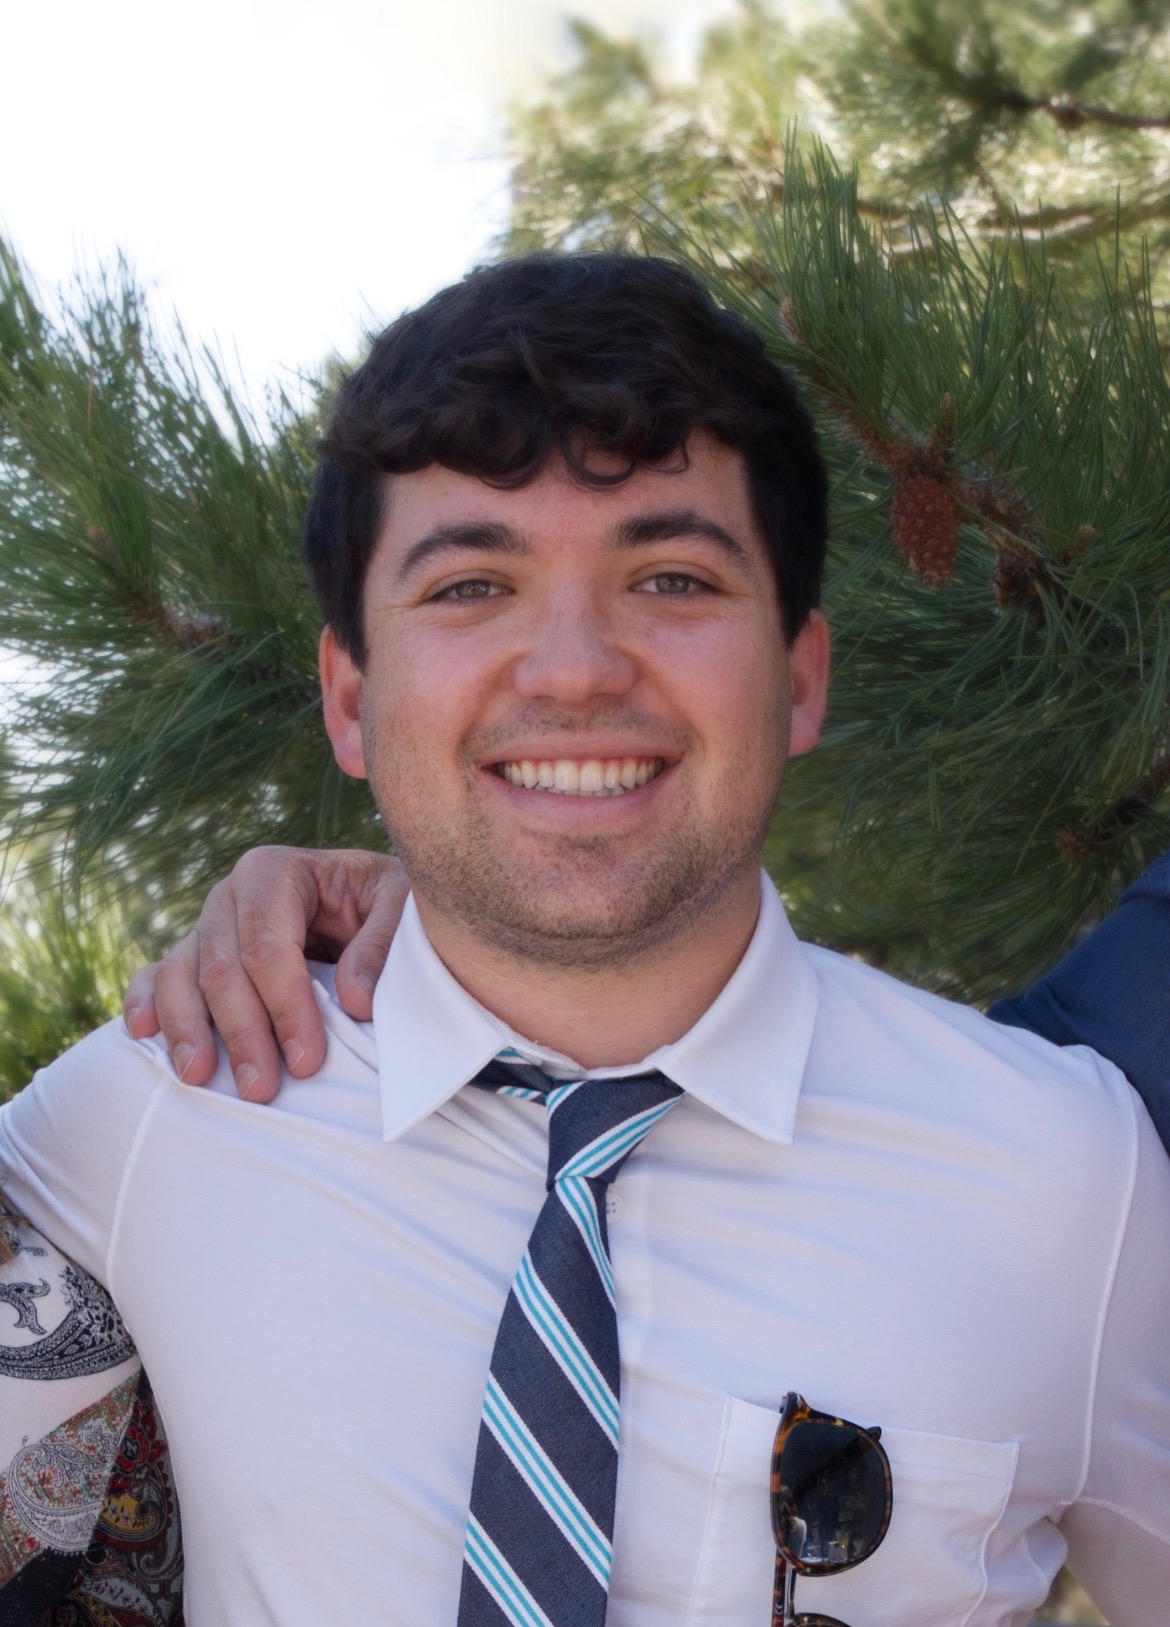
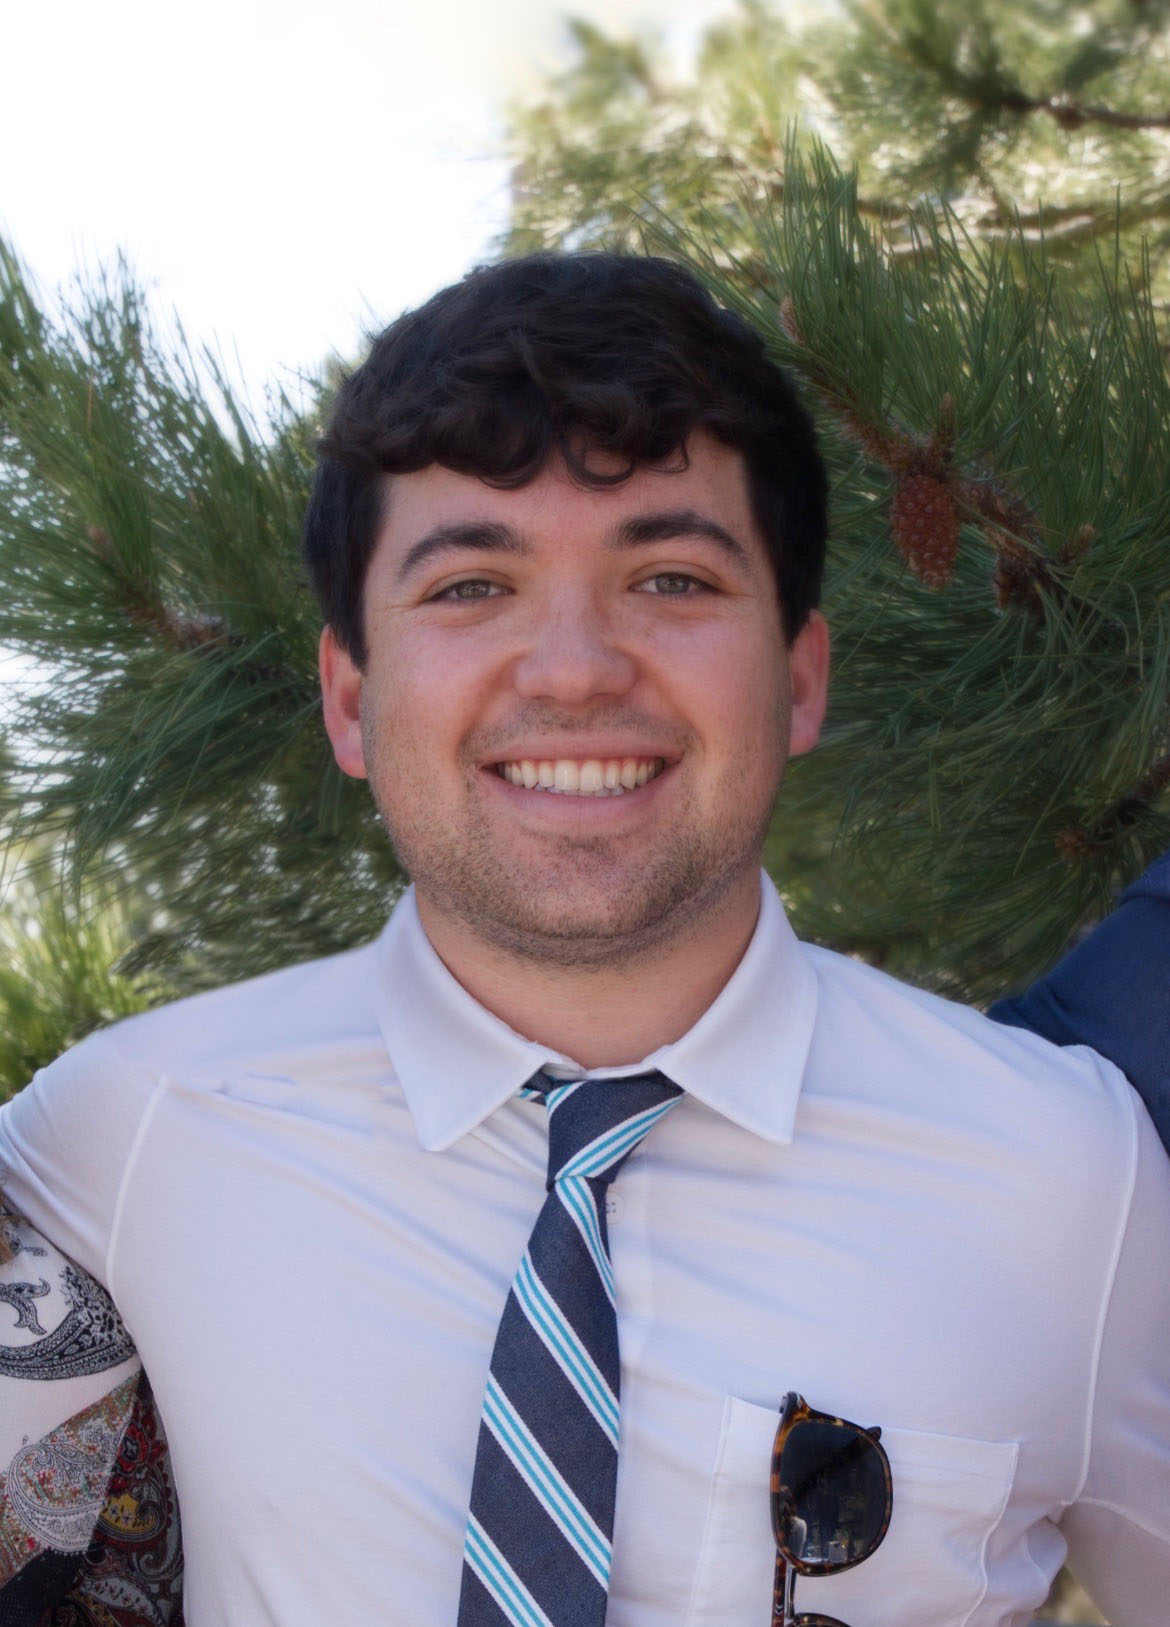
minor changes

Changed region(s): [[0.0615, 0.5224, 0.4615, 0.7068]]

diff --git a/src/pages/uses.jsx b/src/pages/uses.jsx
@@ -41,6 +41,50 @@ export default function Uses() {
         intro="I get asked a lot about the things I use to build software, stay productive, or buy to fool myself into thinking I'm being productive when I’m really just procrastinating. Here’s a big list of all of my favorite stuff."
       >
         <div className="space-y-20">
+          <ToolsSection title="Frameworks and Libraries">
+            <Tool title="TailwindCSS">
+              I rely on Tailwind for nearly all my projects. It is an
+              outstanding utility-first CSS framework that simplifies the
+              creation of responsive, accessible, and high-performance
+              interfaces.
+            </Tool>
+            <Tool title="Next.js">
+              Next.js is my go-to for all React projects. It is an excellent
+              framework for developing static and server-rendered React
+              applications.
+            </Tool>
+            <Tool title="TanStack Query">
+              TanStack Query is an essential data-fetching library I use for my
+              projects. It simplifies the process of fetching, caching, and
+              syncing data in React applications, making it easy to manage
+              server state and improve user experience.
+            </Tool>
+          </ToolsSection>
+          <ToolsSection title="Development">
+            <Tool title="VS Code">
+              VS Code is my development environment of choice. Its extensibility
+              and open-source nature are impressive. I use the Material Theme
+              extension and the Material Icon Theme extension.
+            </Tool>
+            <Tool title="GitHub Copilot">
+              I&apos;ve been using GitHub Copilot for a few months now and
+              I&apos;m absolutely in love with it. It&apos;s a game changer for
+              me. I use it for everything from writing blog posts to building
+              out new features in my apps.
+            </Tool>
+            <Tool title="Vercel">
+              I use Vercel for most of my websites. It is highly flexible and
+              user-friendly, capable of scaling with my site and providing
+              numerous outstanding features out of the box.
+            </Tool>
+          </ToolsSection>
+          <ToolsSection title="Design">
+            <Tool title="Figma">
+              Figma is my preferred tool for all design work, including
+              wireframes, prototypes, and final designs. It is an excellent
+              platform for collaboration with others.
+            </Tool>
+          </ToolsSection>
           <ToolsSection title="Workstation">
             <Tool title="16” MacBook Pro, M1 Pro, 16GB RAM (2021)">
               I was using an Intel-based 16” MacBook Pro prior to this and the
@@ -49,14 +93,14 @@ export default function Uses() {
               bunch of browser tabs open without any slowdown.
             </Tool>
             <Tool title="11” iPad Pro">
-              I use this for reading, writing, and taking notes. I also use it
-              as a second screen for my laptop. I&apos;m a big fan of the Apple
-              Pencil and the Smart Keyboard Folio.
+              I utilize this device for reading, writing, and note-taking. It
+              also serves as a second screen for my laptop. I am a big fan of
+              the Apple Pencil and the Smart Keyboard Folio.
             </Tool>
             <Tool title="LG 4k HDR Monitors">
-              I use these monitors for my main display. They&apos;re great for
-              development and I love the HDR support. Also always gotta have
-              that one vertical monitor.
+              These monitors are my primary display and are excellent for
+              development. I appreciate the HDR support and the convenience of a
+              vertical monitor.
             </Tool>
             <Tool title="MagFlött Magnetic Stand by CharJenPro">
               I use this stand to add a 3rd monitor to my setup. It&apos;s super
@@ -68,50 +112,14 @@ export default function Uses() {
               basic, but I love the Touch ID.
             </Tool>
             <Tool title="MX Master 3">
-              I&apos;ve been using this mouse for years and it&apos;s still my
-              favorite. It&apos;s comfortable, has a great scroll wheel, and the
-              thumb wheel is super useful for navigating back and forward in my
-              browser.
+              I have been using this mouse for years, and it remains my
+              favorite. It is comfortable, has an excellent scroll wheel, and
+              the thumb wheel is incredibly useful for navigating backward and
+              forward in my browser.
             </Tool>
             <Tool title="Steelcase Leap">
               If I&apos;m going to slouch in the worst ergonomic position
               imaginable all day, I might as well do it in an expensive chair.
-            </Tool>
-          </ToolsSection>
-          <ToolsSection title="Frameworks">
-            <Tool title="TailwindCSS">
-              I use Tailwind for almost all of my projects. It&apos;s a great
-              utility-first CSS framework that makes it easy to build
-              responsive, accessible, and performant interfaces.
-            </Tool>
-            <Tool title="Next.js">
-              I use Next.js for all of my React projects. It&apos;s a great
-              framework for building static and server-rendered React apps.
-            </Tool>
-          </ToolsSection>
-          <ToolsSection title="Development">
-            <Tool title="VS Code">
-              I use VS Code for all of my development. I love the extensibility
-              and the fact that it’s open source. I use the Material Theme
-              extension and the Material Icon Theme extension.
-            </Tool>
-            <Tool title="GitHub Copilot">
-              I&apos;ve been using GitHub Copilot for a few months now and
-              I&apos;m absolutely in love with it. It&apos;s a game changer for
-              me. I use it for everything from writing blog posts to building
-              out new features in my apps.
-            </Tool>
-            <Tool title="Vercel">
-              I use Vercel for most of my sites. It&apos;s very flexible and
-              easy to use. It can scale with your site and also offers a lot of
-              great features out of the box.
-            </Tool>
-          </ToolsSection>
-          <ToolsSection title="Design">
-            <Tool title="Figma">
-              I use Figma for all of my design work, including wireframes,
-              prototypes, and final designs. It&apos;s a great tool for
-              collaborating with others.
             </Tool>
           </ToolsSection>
         </div>

diff --git a/src/components/Header.jsx b/src/components/Header.jsx
@@ -6,7 +6,7 @@ import { Popover, Transition } from '@headlessui/react'
 import clsx from 'clsx'
 
 import { Container } from '@/components/Container'
-import avatarImage from '@/images/avatar.jpg'
+import avatarImage from '@/images/portrait.jpg'
 import { Fragment, useEffect, useRef } from 'react'
 
 function CloseIcon(props) {
